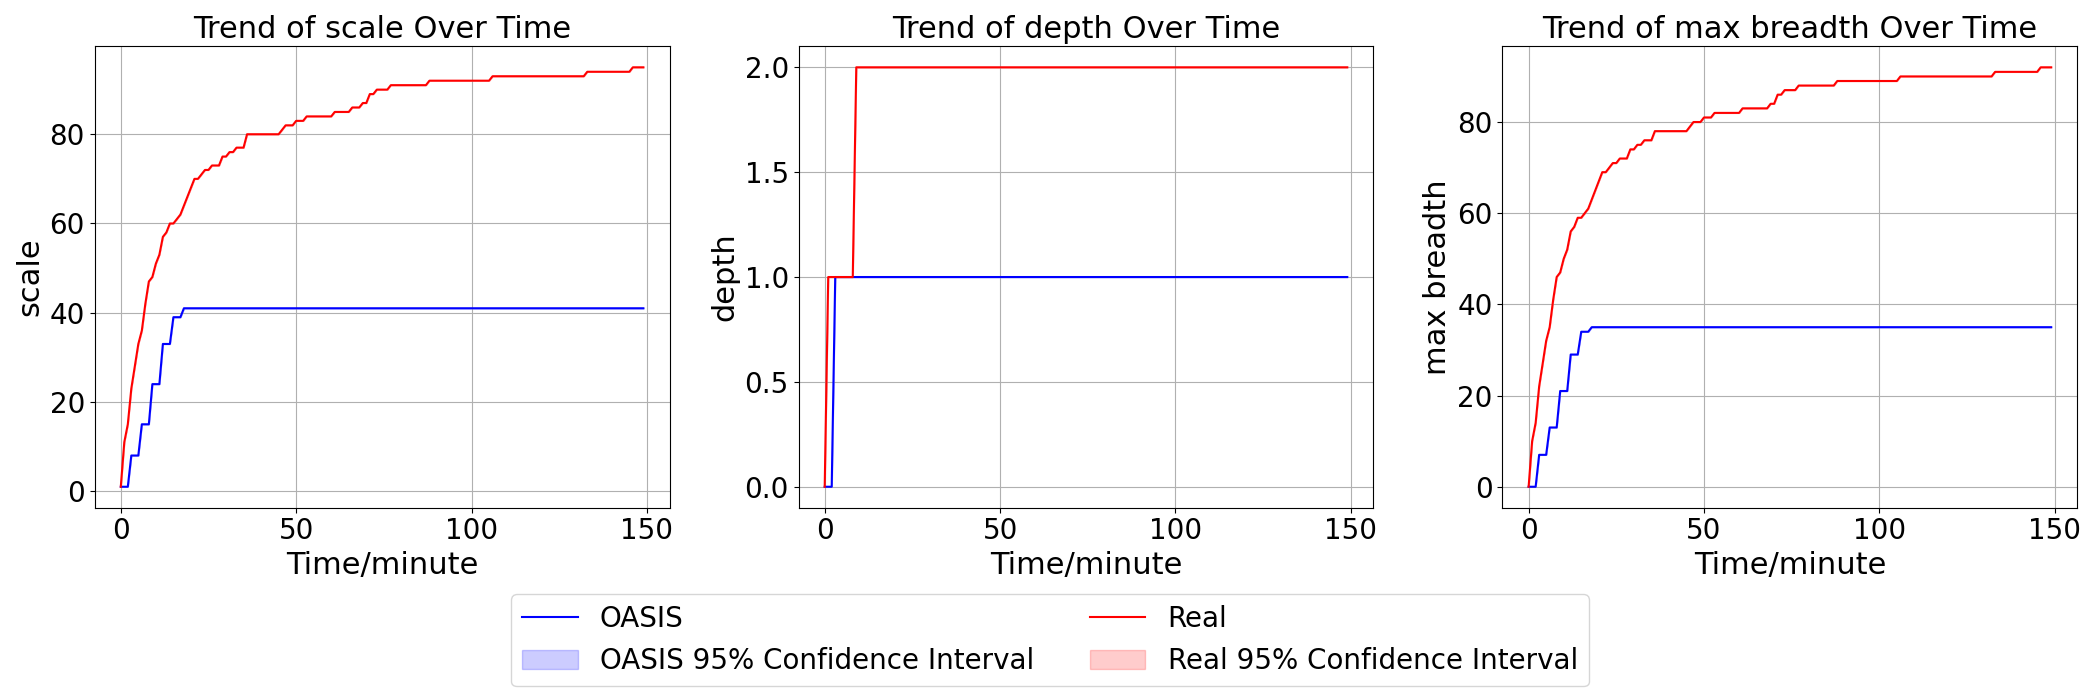
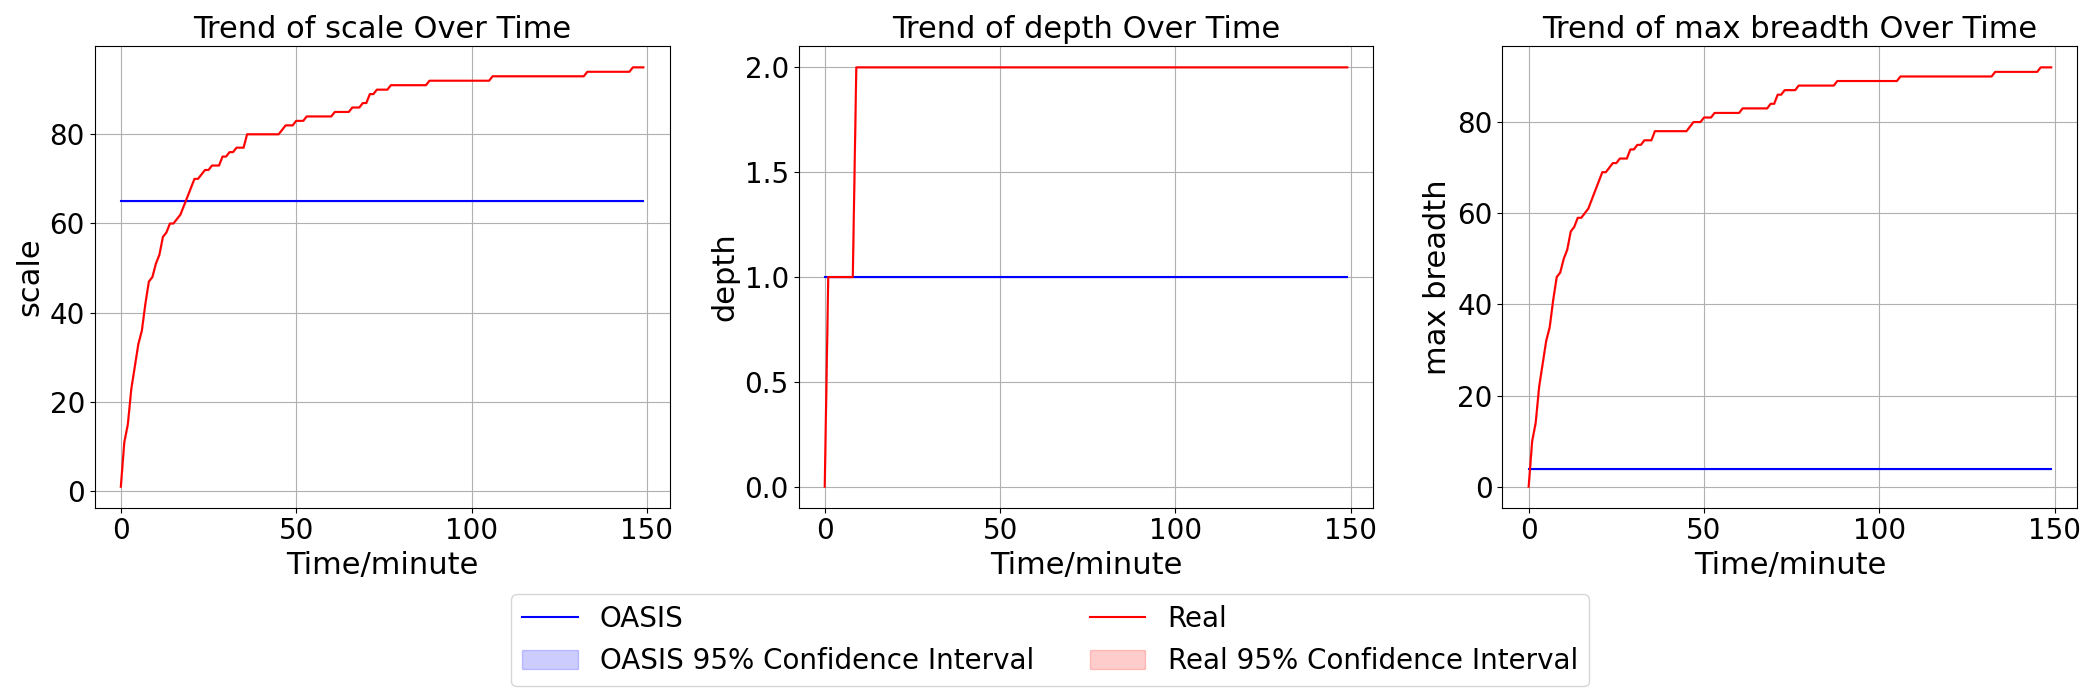
modify

diff --git a/scripts/twitter_gpt_example/twitter_simulation_large.py b/scripts/twitter_gpt_example/twitter_simulation_large.py
@@ -19,6 +19,7 @@ import asyncio
 import logging
 import os
 import random
+random.seed(42)
 import sys
 from datetime import datetime
 from pathlib import Path
@@ -209,7 +210,19 @@ async def running(
     response = await nurse_agent.perform_action_by_data("create_post", content=formatted_content)
     post_id = response["post_id"]
     tasks = []
-    for _, agent in agent_graph.get_agents():
+    
+    patients_id = []
+    patient_agents = []
+    for edge in agent_graph.get_edges():
+        if edge[1] == 32:
+            patients_id.append(edge[0])
+    # print(patients_id)
+    if patients_id is not None:
+        for patient_id in random.sample(patients_id, int(len(patients_id)*0.2)):
+            patient_agents.append(agent_graph.get_agent(patient_id))
+    else: patient_agents = random.sample(agent_graph.get_agents(), len(agent_graph.get_agents())*0.1)
+    
+    for agent in patient_agents:
         if agent.user_info.is_controllable is False:
             tasks.append(agent.perform_vaccine(post_id))
     await asyncio.gather(*tasks)
@@ -234,8 +247,8 @@ async def running(
                     "active_threshold"][int(simulation_time_hour % 24)]
                 if agent_ac_prob < threshold:
                     tasks.append(agent.perform_action_by_llm())
-            else:
-                await agent.perform_action_by_hci() #手动输入行为
+            # else:
+            #     await agent.perform_action_by_hci() #手动输入行为
 
         await asyncio.gather(*tasks)
         # agent_graph.visualize(f"timestep_{timestep}_social_graph.png")

diff --git a/visualization/twitter_simulation/align_with_real_world/code/graph.py b/visualization/twitter_simulation/align_with_real_world/code/graph.py
@@ -35,6 +35,9 @@ class prop_graph:
         conn = sqlite3.connect(self.db_path)
         query = "SELECT post_id, user_id, original_post_id, created_at FROM post"
         df = pd.read_sql(query, conn)
+        # outputpath = 'result_test.csv'
+        # df.to_csv(outputpath, sep=',', index=False, header=True)
+        # print(df)
         conn.close()
 
         # 确定根节点（original_post_id为空的帖子）
@@ -69,13 +72,13 @@ class prop_graph:
                 
             # 计算时间差（假设created_at以分钟为单位）
             time_diff = row['created_at'] - root_time
+            print(time_diff)
             
             # 添加节点和边
             if current_user not in self.G:
                 self.G.add_node(current_user, timestamp=time_diff)
             self.G.add_edge(original_user, current_user)
 
-        # 后续统计逻辑保持不变...
         # Get the start and end timestamps of propagation
         self.start_timestamp = 0
         timestamps = nx.get_node_attributes(self.G, "timestamp")

diff --git a/oasis/social_agent/agent.py b/oasis/social_agent/agent.py
@@ -84,7 +84,7 @@ class SocialAgent:
         model_config = ChatGPTConfig( #通用config
                 tools=self.env.action.get_openai_function_list(), #提供模型可用的功能函数
                 temperature=0.5,
-                tool_choice="required",
+                # tool_choice="required",
             )
         if self.is_openai_model:
             self.model_backend = ModelFactory.create( #创建openai模型
